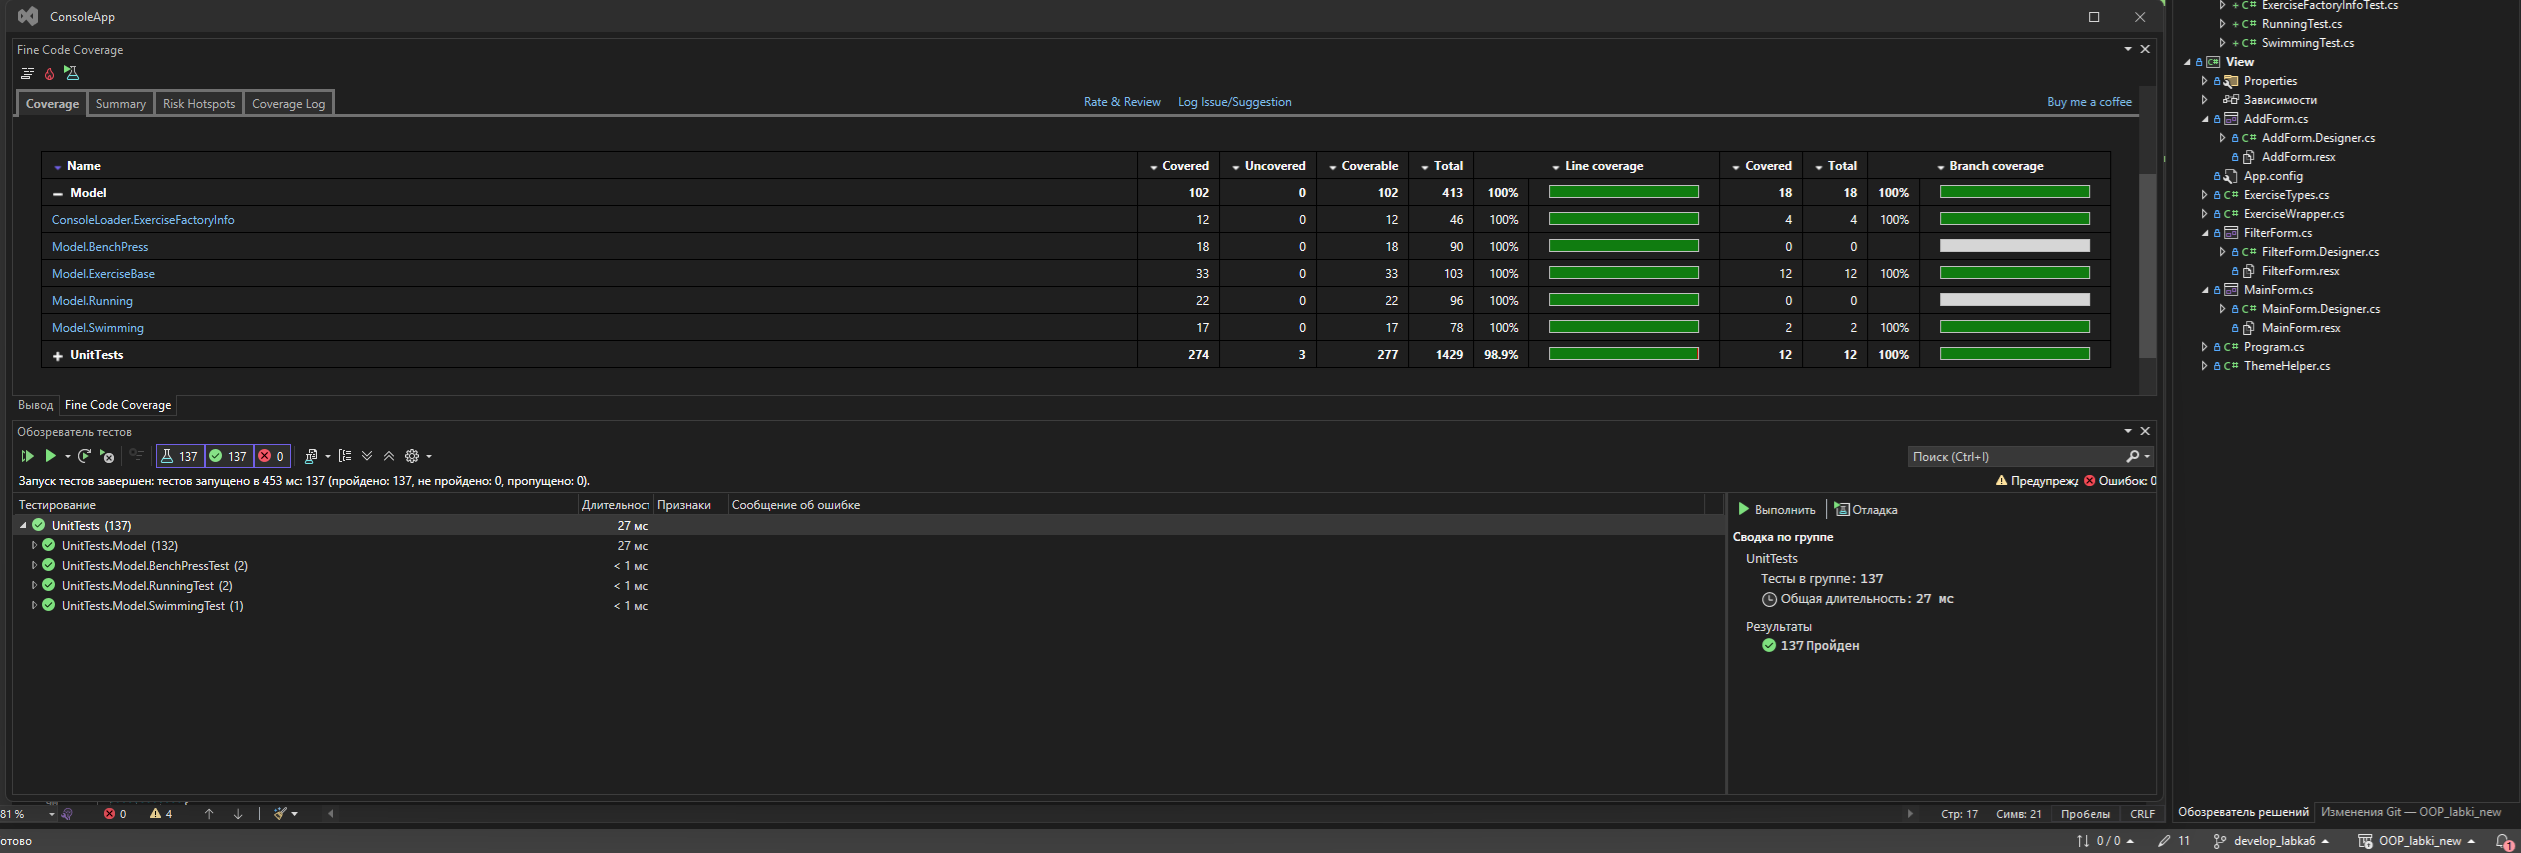
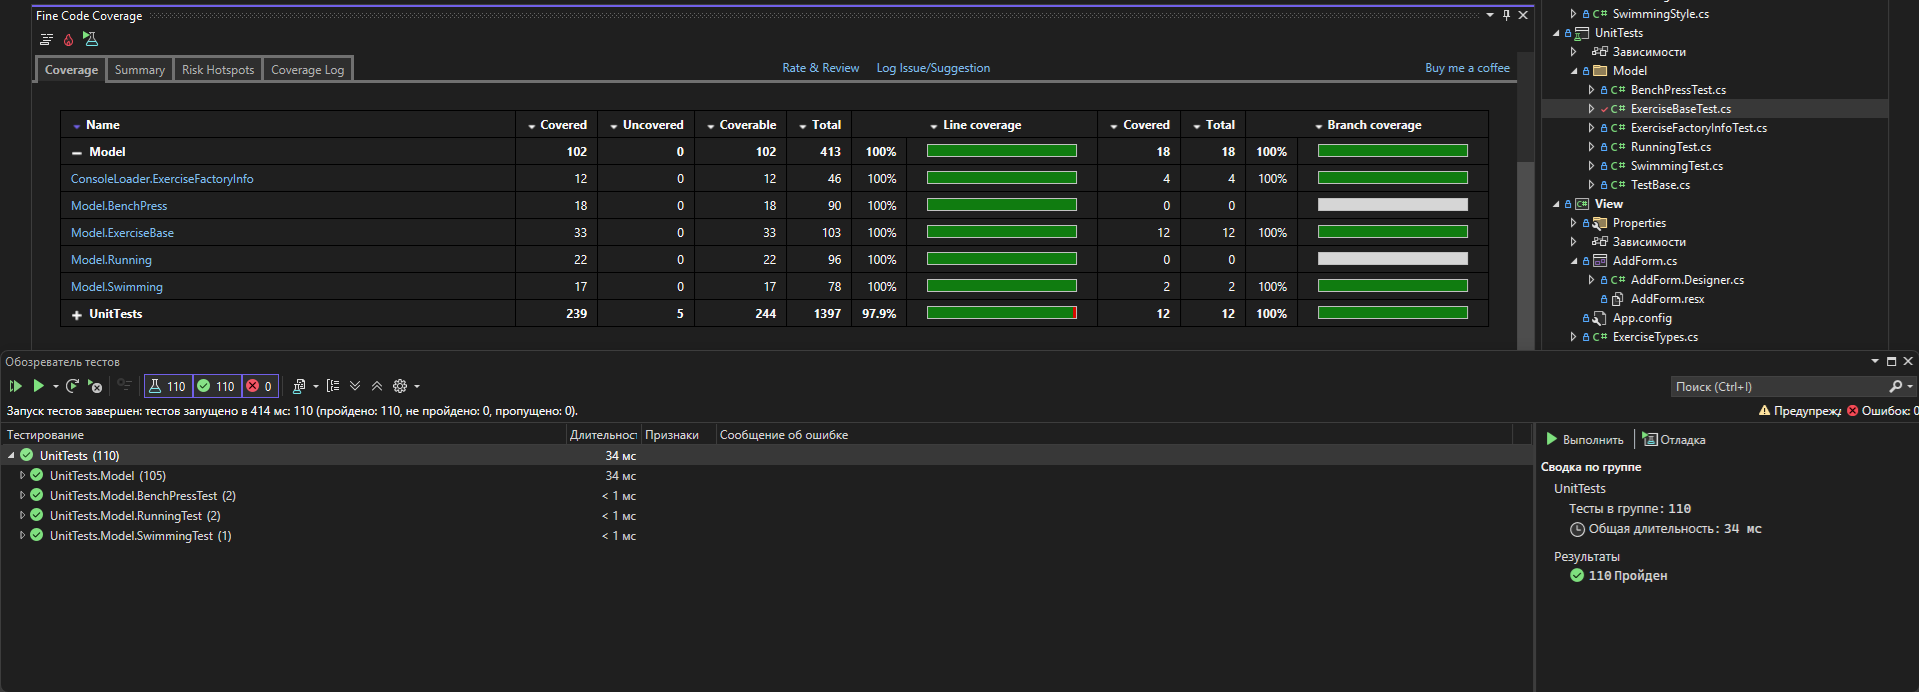
Todo(labka6) done

diff --git a/Labka_1/ConsoleApp/UnitTests/Model/ExerciseBaseTest.cs b/Labka_1/ConsoleApp/UnitTests/Model/ExerciseBaseTest.cs
@@ -18,13 +18,27 @@ namespace UnitTests.Model
         /// </summary>
         private sealed class TestExercise : ExerciseBase
         {
-            //TODO: XML
+            /// <summary>
+            /// Заранее заданное значение калорий, которое вернёт
+            /// CalculateCalories(). Позволяет тестировать свойство
+            /// Calories без зависимости от формулы конкретного упражнения.
+            /// </summary>
             public double FakeCalories { get; set; }
 
+            /// <summary>
+            /// Создание тестового экземпляра ExerciseBase.
+            /// </summary>
+            /// <param name="name">Название упражнения.</param>
             public TestExercise(string name) : base(name) { }
 
+            /// <summary>
+            /// Информация об упражнении (заглушка для тестов).
+            /// </summary>
             public override string ExerciseInfo => $"Test: {Name}";
 
+            /// <summary>
+            /// Расчёт калорий — возвращает значение из FakeCalories.
+            /// </summary>
             public override double CalculateCalories() => FakeCalories;
         }
 
